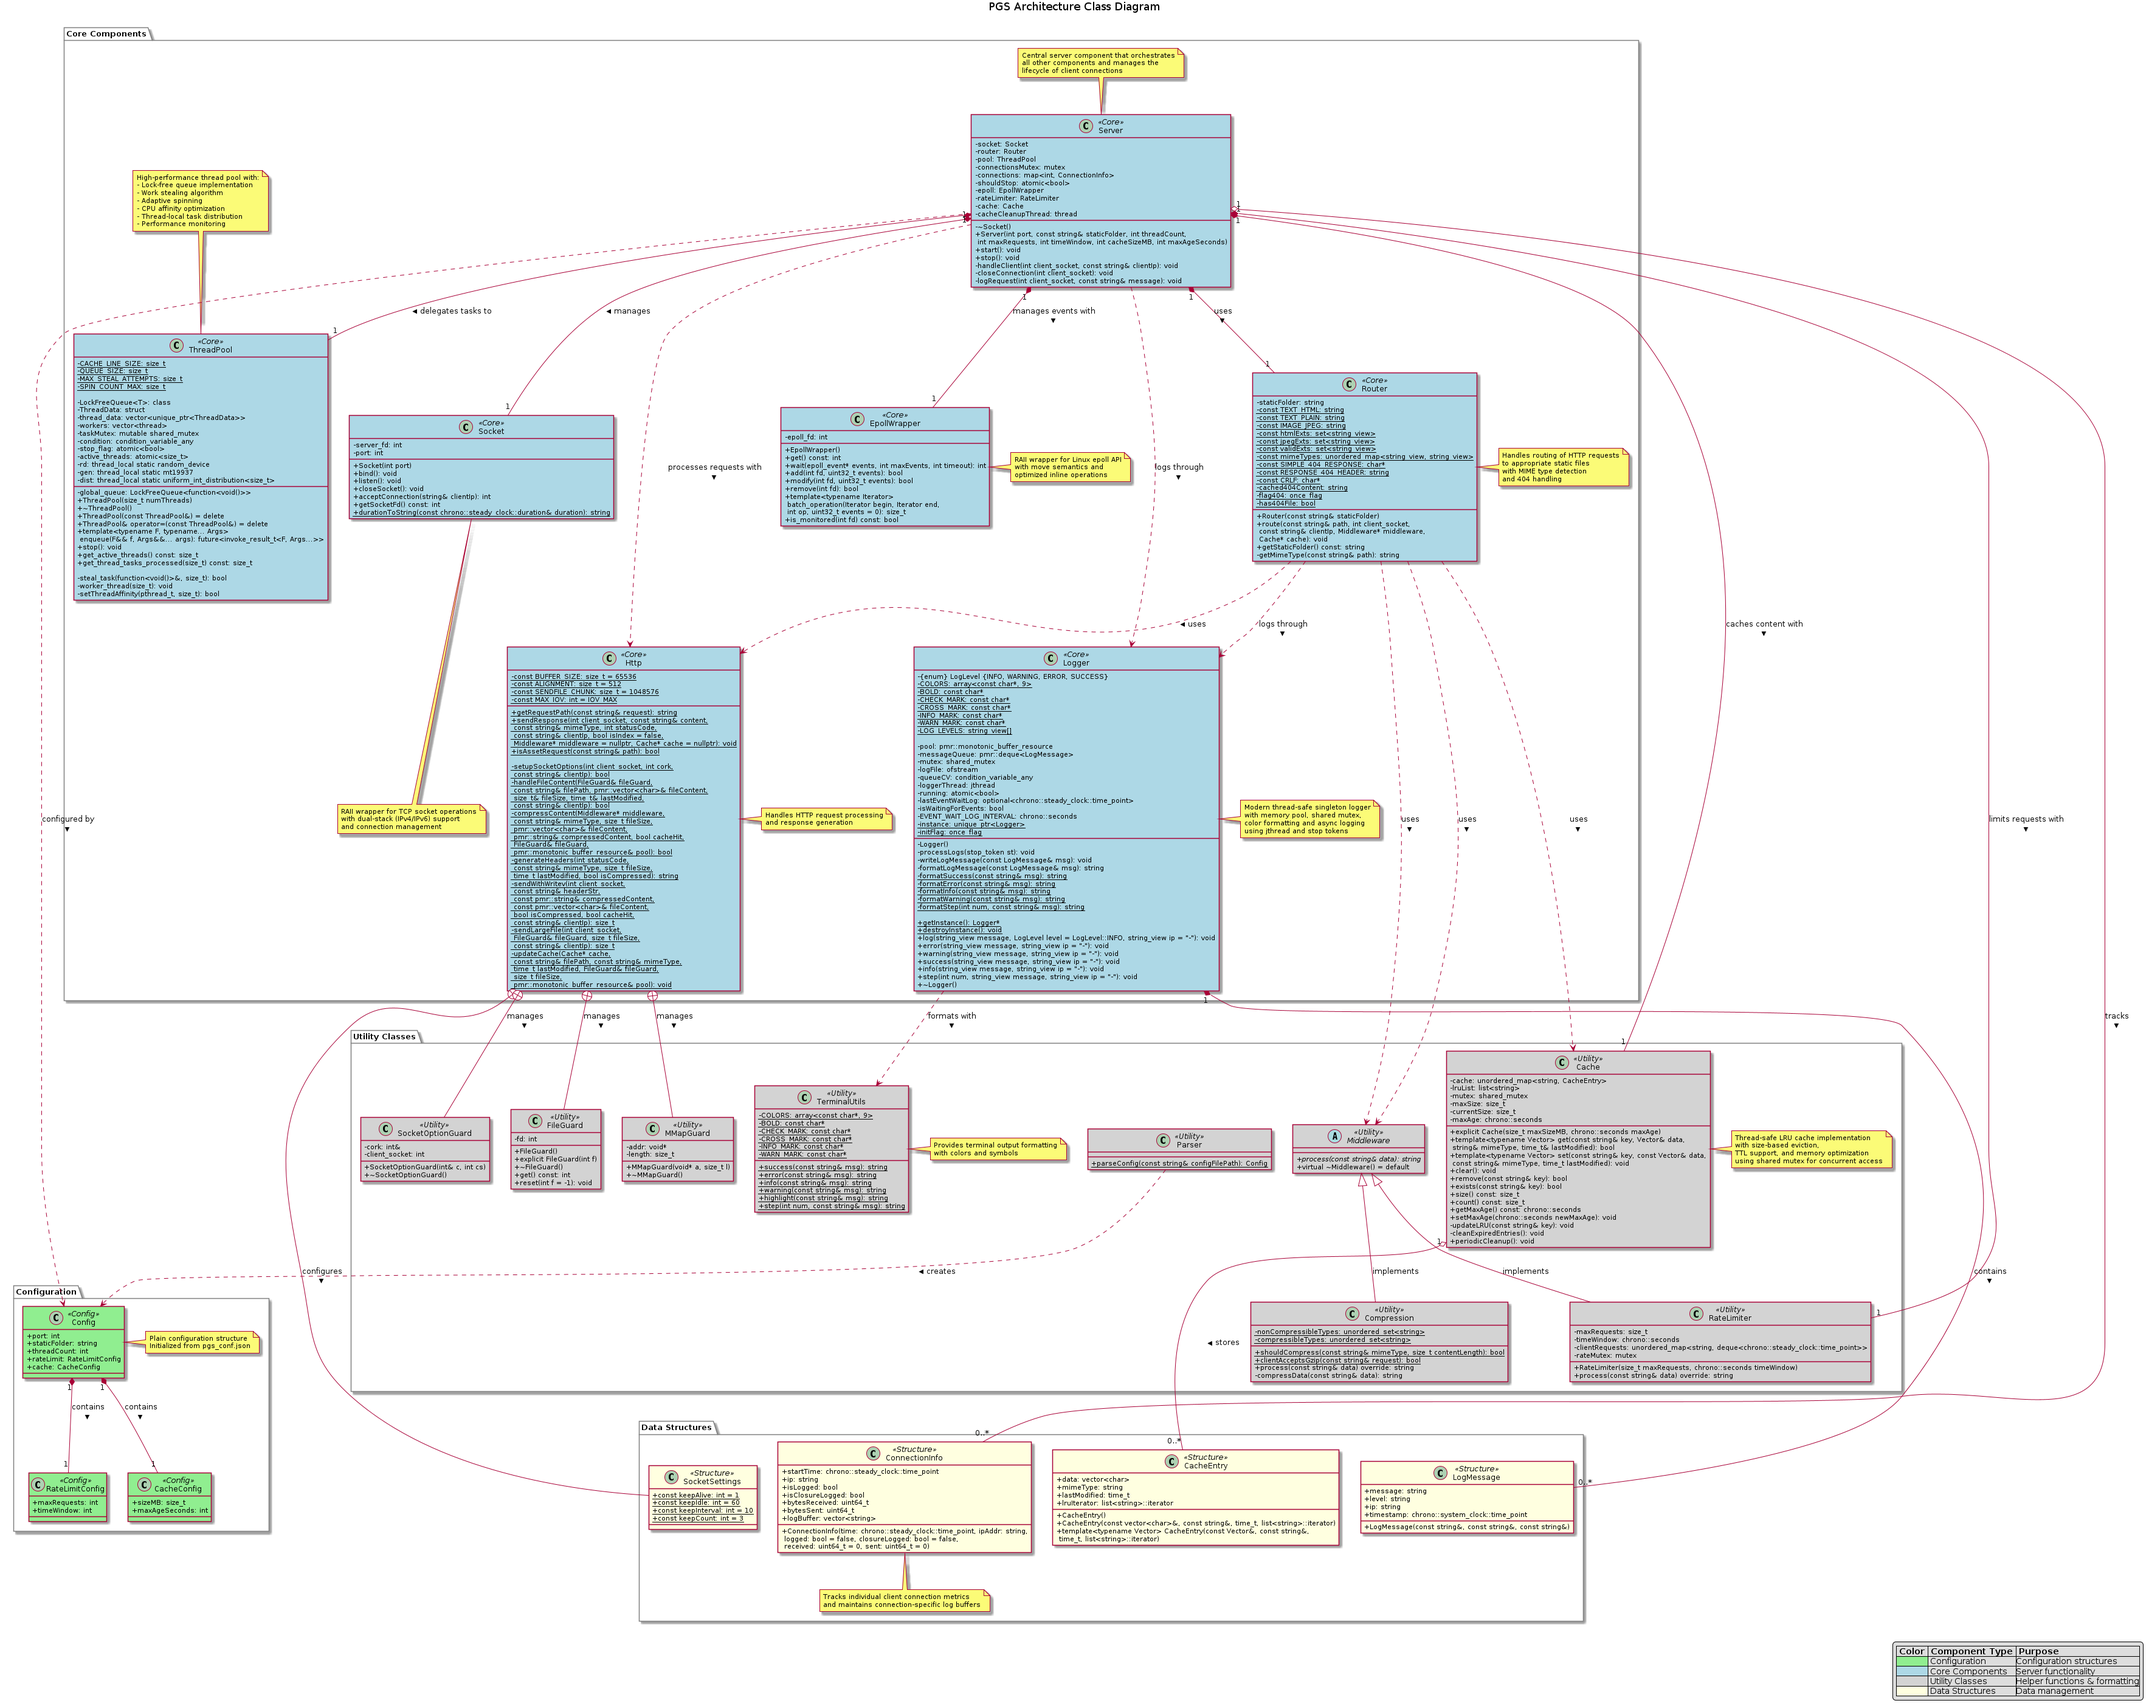
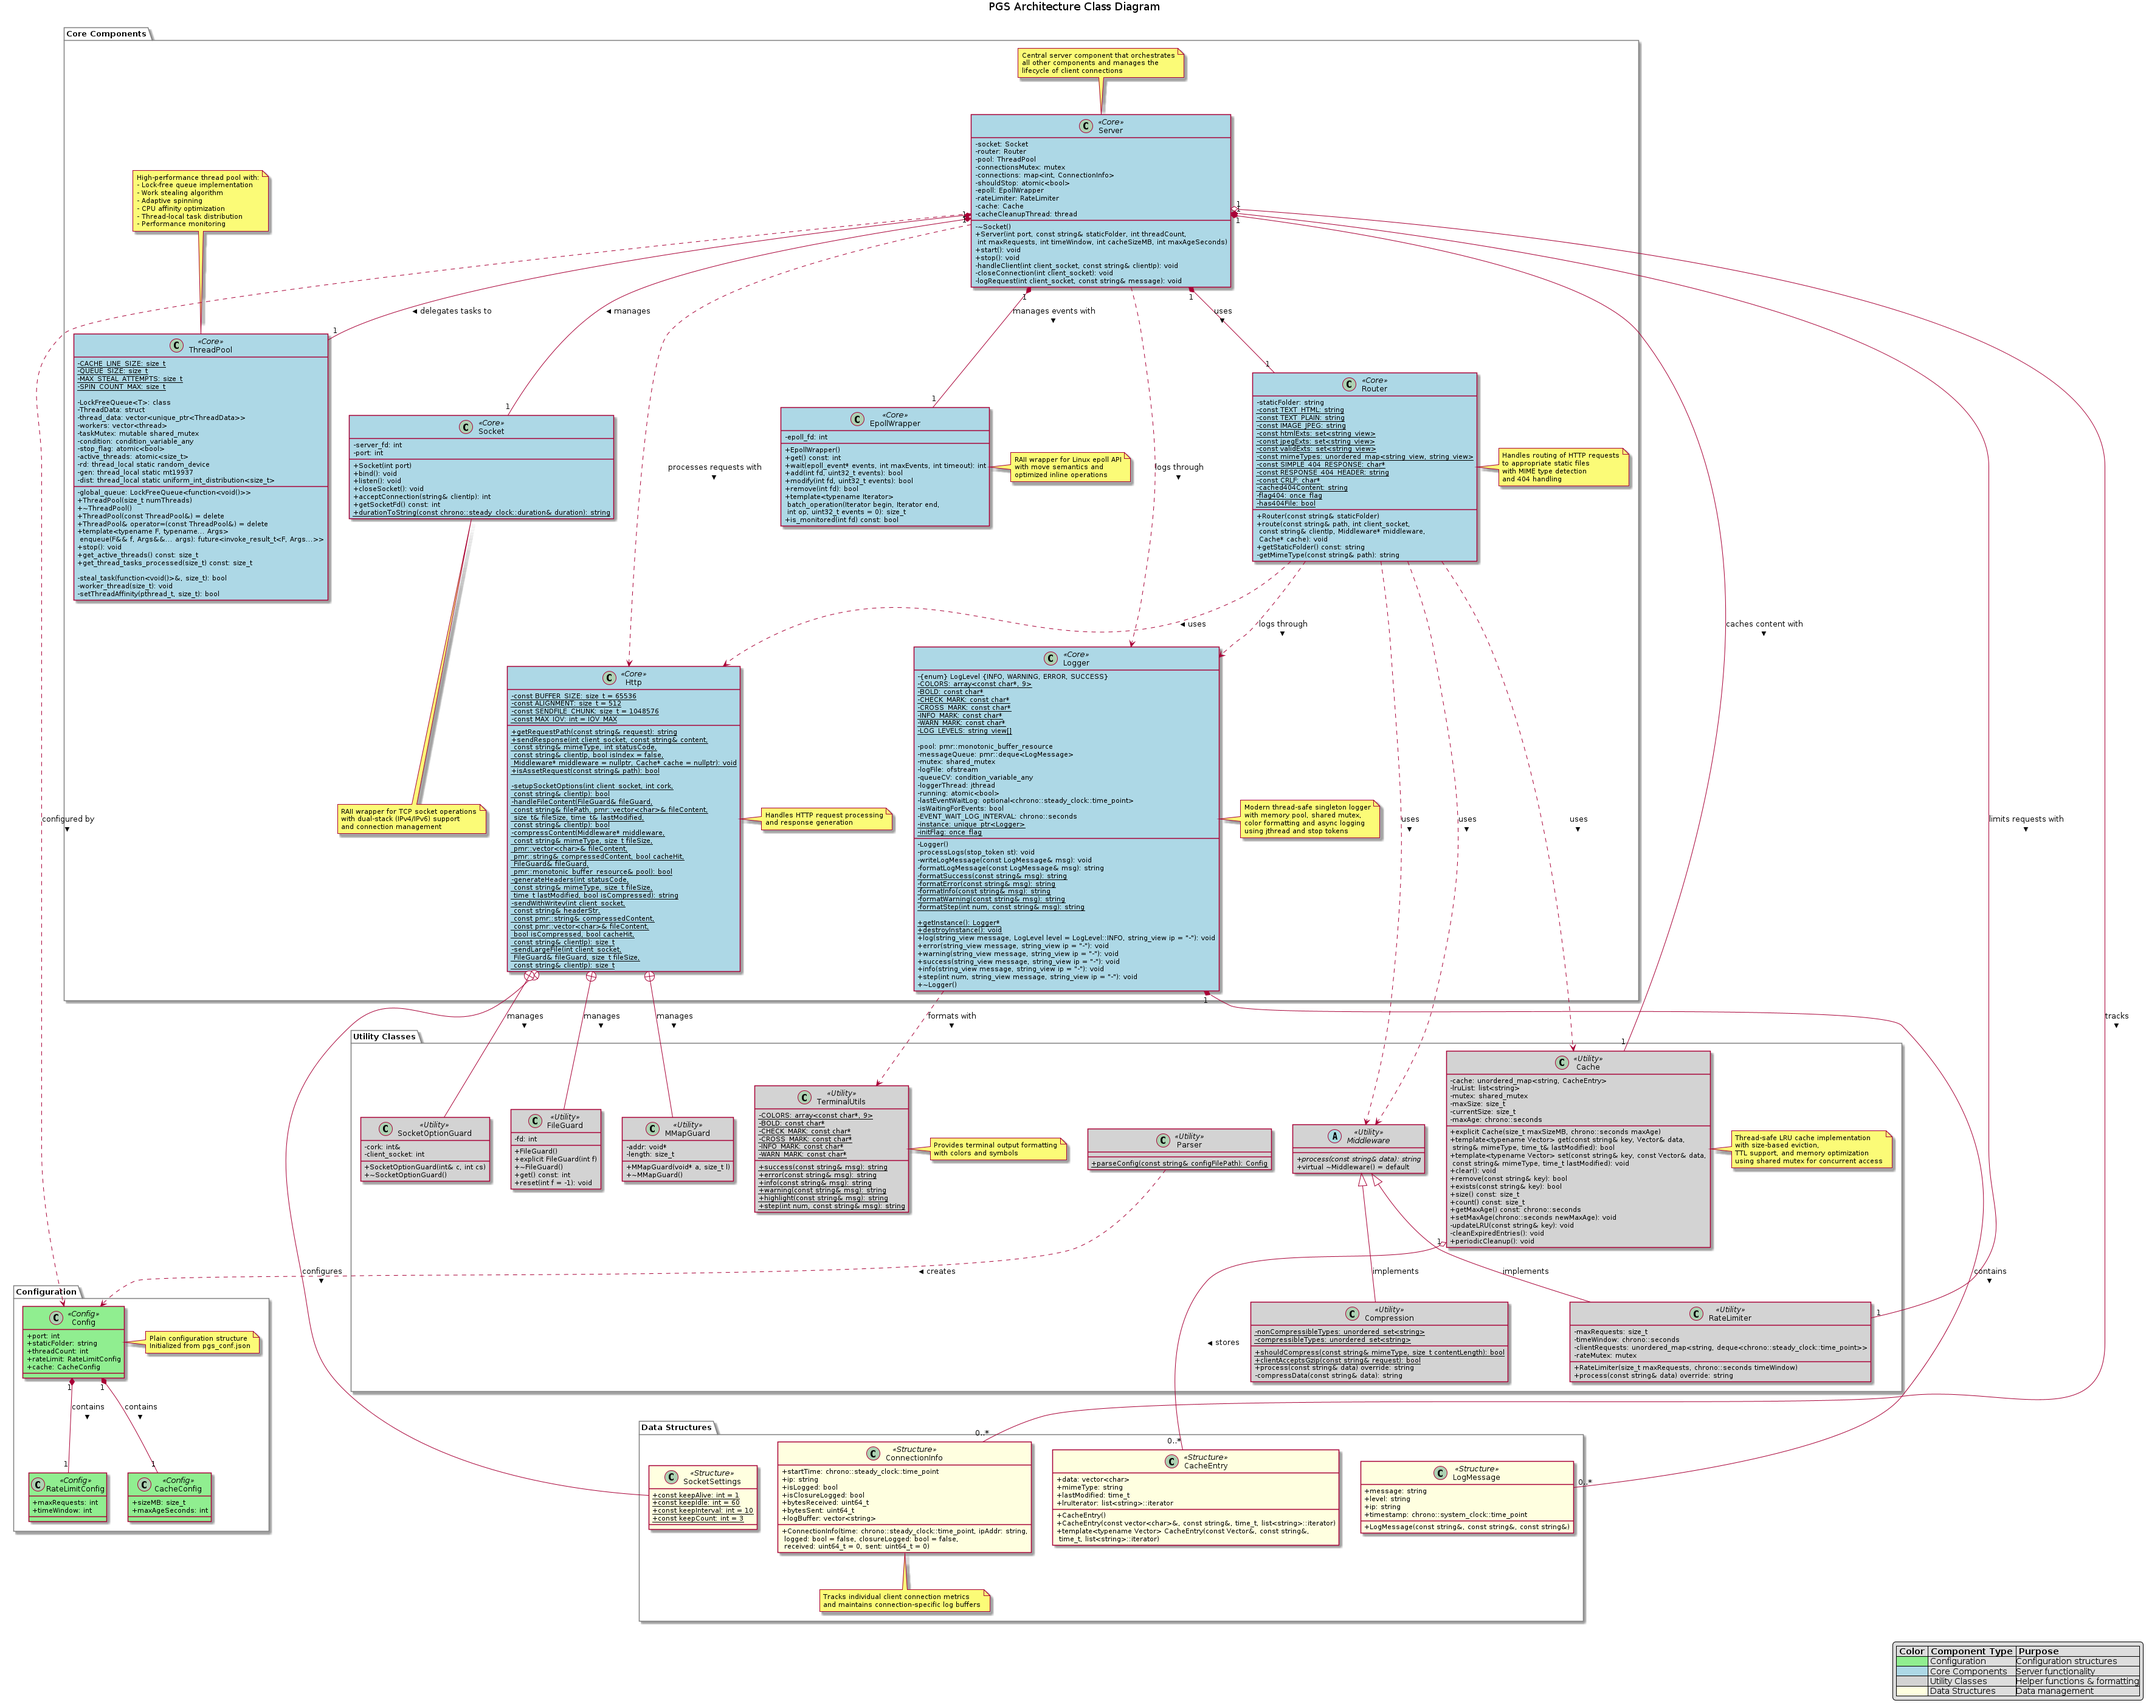
Refactor: Remove updateCache function and streamline caching logic in Http class; enhance error handling and data copying

Changed region(s): [[0.2178, 0.3719, 0.3423, 0.5889]]

diff --git a/pgs.cpp b/pgs.cpp
@@ -466,7 +466,6 @@ public:
     template <typename Vector>
     bool get(const std::string &key, Vector &data, std::string &mimeType, time_t &lastModified)
     {
-        // First check with shared lock
         std::shared_lock<std::shared_mutex> readLock(mutex);
 
         auto it = cache.find(key);
@@ -475,52 +474,33 @@ public:
             return false;
         }
 
-        // Check expiration
-        auto now = std::chrono::system_clock::now();
-        auto entryAge = now - std::chrono::system_clock::from_time_t(it->second.lastModified);
-        if (entryAge > maxAge)
-        {
-            // Release shared lock and acquire exclusive lock for removal
-            readLock.unlock();
-            std::unique_lock<std::shared_mutex> writeLock(mutex);
-
-            // Re-check after acquiring exclusive lock
-            it = cache.find(key);
-            if (it != cache.end())
-            {
-                currentSize -= it->second.data.size();
-                lruList.erase(it->second.lruIterator);
-                cache.erase(it);
-                Logger::getInstance()->info("Cache entry expired: " + key);
-            }
-            return false;
-        }
-
-        // Reserve space before copying/moving data
+        // Copy the cached data and metadata first
         try
         {
             data.reserve(it->second.data.size());
+            data.assign(it->second.data.begin(), it->second.data.end());
+            mimeType = it->second.mimeType;
+            lastModified = it->second.lastModified;
         }
         catch (const std::bad_alloc &e)
         {
-            Logger::getInstance()->error("Failed to reserve space for cached data: " + std::string(e.what()));
+            Logger::getInstance()->error("Failed to copy cached data: " + std::string(e.what()));
             return false;
         }
 
-        // Copy data instead of moving to preserve cache content
-        data.assign(it->second.data.begin(), it->second.data.end());
-        mimeType = it->second.mimeType; // Copy, don't move
-        lastModified = it->second.lastModified;
-
-        // Update LRU under the same lock
+        // Update LRU list under exclusive lock
         readLock.unlock();
         std::unique_lock<std::shared_mutex> writeLock(mutex);
 
-        // Re-check if entry still exists
+        // Re-check if entry still exists after lock switch
         it = cache.find(key);
         if (it != cache.end())
         {
-            updateLRU(key);
+            // Move entry to front of LRU list
+            lruList.erase(it->second.lruIterator);
+            lruList.push_front(key);
+            it->second.lruIterator = lruList.begin();
+
             return true;
         }
 
@@ -1582,11 +1562,8 @@ private:
                                  const std::string &clientIp);
     static size_t sendLargeFile(int client_socket, const FileGuard &fileGuard,
                                 size_t fileSize, const std::string &clientIp);
-    static void updateCache(Cache *cache, const std::string &filePath,
-                            const std::string &mimeType, time_t lastModified,
-                            const FileGuard &fileGuard, size_t fileSize,
-                            std::pmr::monotonic_buffer_resource &pool);
 };
+
 bool Http::isAssetRequest(const std::string &path)
 {
     // cache string length to avoid multiple calls
@@ -1774,17 +1751,84 @@ void Http::sendResponse(int client_socket, const std::string &filePath,
         sendWithWritev(client_socket, headerStr, compressedContent, fileContent,
                        isCompressed, cacheHit, clientIp);
 
-    // Handle large file transfer using sendfile or mmap
+    // Handle large file transfer and caching
     if (!isCompressed && !cacheHit && fileGuard.get() != -1)
     {
-        totalBytesSent +=
-            sendLargeFile(client_socket, fileGuard, fileSize, clientIp);
+        // Read file content once for both sending and caching
+        std::pmr::vector<char> content{&pool};
+        content.reserve(fileSize);
+        bool readSuccess = false;
 
-        if (cache && statusCode == 200)
+        // Try to read entire file into memory
+        if (lseek(fileGuard.get(), 0, SEEK_SET) != -1)
         {
-            // Update cache if need
-            updateCache(cache, std::string(filePath), std::string(mimeType),
-                        lastModified, fileGuard, fileSize, pool);
+            // Use aligned buffer for optimal read performance
+            std::unique_ptr<char[]> alignedBuffer(
+                new (std::align_val_t{ALIGNMENT}) char[BUFFER_SIZE]);
+            size_t totalRead = 0;
+
+            // Read file in chunks
+            while (totalRead < fileSize)
+            {
+                ssize_t bytesRead = read(fileGuard.get(), alignedBuffer.get(),
+                                         std::min(BUFFER_SIZE, fileSize - totalRead));
+                if (bytesRead <= 0)
+                    break;
+
+                content.insert(content.end(), alignedBuffer.get(),
+                               alignedBuffer.get() + bytesRead);
+                totalRead += bytesRead;
+            }
+
+            readSuccess = (totalRead == fileSize);
+        }
+
+        // If successfully read the file, send content and update cache
+        if (readSuccess)
+        {
+            // Send file content with retry logic
+            size_t sent = 0;
+            const char *data = content.data();
+            size_t remaining = content.size();
+
+            while (remaining > 0)
+            {
+                ssize_t byteSent = send(client_socket, data + sent, remaining, MSG_NOSIGNAL);
+                if (byteSent <= 0)
+                {
+                    if (errno == EAGAIN || errno == EWOULDBLOCK)
+                    {
+                        // Retry after short delay
+                        std::this_thread::sleep_for(std::chrono::microseconds(1000));
+                        continue;
+                    }
+                    Logger::getInstance()->error(
+                        "Failed to send content: errno=" + std::to_string(errno), clientIp);
+                    break;
+                }
+                sent += byteSent;
+                remaining -= byteSent;
+            }
+            totalBytesSent += sent;
+
+            // Update cache if needed
+            if (cache && statusCode == 200)
+            {
+                std::string keyTemp(filePath);
+                std::string mimeTemp(mimeType);
+                cache->set(std::move(keyTemp), std::move(content),
+                           std::move(mimeTemp), lastModified);
+
+                Logger::getInstance()->info(
+                    "set cache: " + filePath +
+                    " cache size: " + std::to_string(cache->size()) +
+                    ", cache count: " + std::to_string(cache->count()));
+            }
+        }
+        else
+        {
+            // Fallback to sendLargeFile if reading fails
+            totalBytesSent += sendLargeFile(client_socket, fileGuard, fileSize, clientIp);
         }
     }
 
@@ -1804,6 +1848,7 @@ void Http::sendResponse(int client_socket, const std::string &filePath,
             clientIp);
     }
 }
+
 [[nodiscard]]
 bool Http::setupSocketOptions(int client_socket, int cork,
                               const std::string &clientIp)
@@ -2178,50 +2223,6 @@ size_t Http::sendLargeFile(int client_socket, const FileGuard &fileGuard,
     }
 
     return totalSent;
-}
-
-void Http::updateCache(Cache *cache, const std::string &filePath,
-                       const std::string &mimeType, time_t lastModified,
-                       const FileGuard &fileGuard, size_t fileSize,
-                       std::pmr::monotonic_buffer_resource &pool)
-{
-    std::pmr::vector<char> content{&pool};
-    content.reserve(fileSize);
-
-    if (lseek(fileGuard.get(), 0, SEEK_SET) != -1)
-    {
-        // Use aligned buffer for optimal read performance
-        std::unique_ptr<char[]> alignedBuffer(
-            new (std::align_val_t{ALIGNMENT}) char[BUFFER_SIZE]);
-        size_t totalRead = 0;
-
-        while (totalRead < fileSize)
-        {
-            ssize_t bytesRead = read(fileGuard.get(), alignedBuffer.get(),
-                                     std::min(BUFFER_SIZE, fileSize - totalRead));
-            if (bytesRead <= 0)
-                break;
-
-            content.insert(content.end(), alignedBuffer.get(),
-                           static_cast<char *>(alignedBuffer.get()) + bytesRead);
-            totalRead += bytesRead;
-        }
-
-        // Only update cache if we read the entire file
-        if (totalRead == fileSize)
-        {
-            // temporarily store the content in a string for move semantics
-            std::string keyTemp(filePath);
-            std::string mimeTemp(mimeType);
-            cache->set(std::move(keyTemp), std::move(content),
-                       std::move(mimeTemp), lastModified);
-
-            Logger::getInstance()->info((
-                "set cache: " + filePath +
-                " cache size: " + std::to_string(cache->size()) +
-                ", cache count: " + std::to_string(cache->count())));
-        }
-    }
 }
 
 class Router
